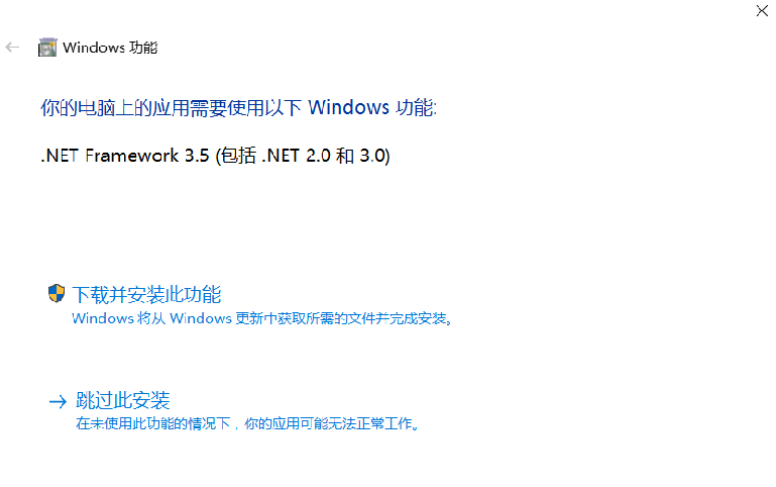
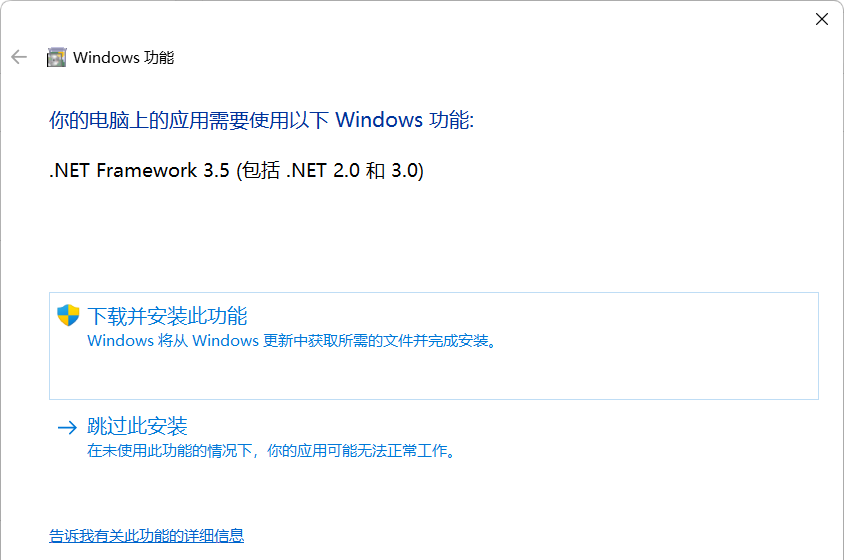
尝试 Win 11/10 的 Tab，更新部分图片

diff --git a/content/basic-maintenance.md b/content/basic-maintenance.md
@@ -23,20 +23,10 @@ type: docs
 
 上一章我们介绍了软件的寻找与安装，这里我们介绍软件的卸载。软件的安装需要通过安装包来进行，而软件的卸载则是安装的逆过程，除了删除软件自身的文件之外，还会撤销一些写入系统的修改，解除一些文件关联等。因此，软件的卸载也需要通过软件自身提供的卸载工具进行，而不是直接「删除」了事。
 
-在 Windows 10 系统上，一般的软件卸载可以按下面的步骤进行：
+卸载软件一般可以按下面的步骤进行：
 
-- 打开系统【设置】。
-- 选择【应用】：
-    
-    ![Applications_10](basic-maintenance/Applications_10.png#center)
-    
-- 稍等片刻以使得列表完全加载。在这个界面上，会列出电脑中安装的所有软件。找到我们不想要的软件，然后点击两次【卸载】：
-    
-    ![Uninstalling_an_app_10](basic-maintenance/Uninstalling_an_app_10.png#center)
-    
-- 根据提示进行卸载操作即可。
-
-而在 Windows 11 上则是这样：
+{{< tabs >}}
+{{% tab "Windows 11" %}}
 
 - 打开系统【设置】。
 - 在界面左侧点击【应用】：
@@ -52,6 +42,23 @@ type: docs
     ![Uninstall_an_app_11](basic-maintenance/Uninstall_an_app_11.jpg#center)
     
 - 之后根据提示卸载即可。
+
+{{% /tab %}}
+{{% tab "Windows 10" %}}
+
+- 打开系统【设置】。
+- 选择【应用】：
+    
+    ![Applications_10](basic-maintenance/Applications_10.png#center)
+    
+- 稍等片刻以使得列表完全加载。在这个界面上，会列出电脑中安装的所有软件。找到我们不想要的软件，然后点击两次【卸载】：
+    
+    ![Uninstalling_an_app_10](basic-maintenance/Uninstalling_an_app_10.png#center)
+    
+- 根据提示进行卸载操作即可。
+
+{{% /tab %}}
+{{< /tabs >}}
 
 一般来说，卸载很快就能完成。但需要特别注意的是，**一些软件的卸载界面错综复杂，充斥有大量的无关选项（例如【再想想】【我要重装】），因此在点选时务必十分小心。甚至有些软件在卸载完成后会诱导用户装一个新的其他软件，请千万注意。** 例如：
 
@@ -160,4 +167,4 @@ Windows 一直在不断的更新之中——这里的「更新」指的不是诸
 
 [^1]: 如果你在使用中压根没见过这样的窗口（即 UAC 弹窗），那么这一节的内容对你可能不适用。你可以去 [用户与微软账号]({{<ref "user-and-ms-account.md">}}) 一章了解更多信息。
     
-    ![UAC_popup_2](basic-maintenance/UAC_popup_2.png#center)
+    ![UAC_popup_2](basic-maintenance/UAC_popup.png#center)

diff --git a/content/file-and-file-management.md b/content/file-and-file-management.md
@@ -299,13 +299,24 @@ D:\Program Files (x86)\Netease\CloudMusic\cloudmusic.exe
 
 ### 合理利用用户文件夹
 
-上文提到了一个叫做 `文档` 的文件夹，它是系统预置的一个用户文件夹。除了「文档」之外，Windows 还提供了「图片」「下载」「视频」等多个用户文件夹。对于 Windows 11，你可以在【此电脑】窗口的左侧看到这些文件夹。
+上文提到了一个叫做 `文档` 的文件夹，它是系统预置的一个用户文件夹。除了「文档」之外，Windows 还提供了「图片」「下载」「视频」等多个用户文件夹。一般这些文件夹可以在【此电脑】窗口中看到：
+
+{{< tabs >}}
+{{% tab "Windows 11" %}}
+
+你可以在【此电脑】窗口的左侧看到这些文件夹。
 
 ![Windows 11 用户文件夹](file-and-file-management/Win11_user_folders.png#center)
 
-Windows 10 上则可以通过双击桌面上的【此电脑】，展开【文件夹】折叠项看到这些文件夹：
+{{% /tab %}}
+{{% tab "Windows 10" %}}
+
+双击桌面上的【此电脑】，展开【文件夹】折叠项看到这些文件夹：
 
 ![User_directories.png](file-and-file-management/User_directories.png#center)
+
+{{% /tab %}}
+{{< /tabs >}}
 
 Windows 系统的本意，是希望用户可以借助这些文件夹来辅助进行文件的整理。可是，这些文件夹默认情况下全部位于 C 盘（路径是 `C:\用户\<你的用户名>\` ）。当我们使用其他分区来存放自己的文件时，这些系统「好心」准备给我们的文件夹就都不能使用了吗？答案是否定的——通过迁移这些文件夹到其他分区，我们可以在利用好这些用户文件夹的同时，保证自己的数据安全和系统稳定。
 

diff --git a/content/software-installation.md b/content/software-installation.md
@@ -164,7 +164,7 @@ D:\Program Files (x86)\Tencent\QQ\
 
 这就是在 D 盘安装 QQ 软件的一个很合适的路径。这样做能保持一个比较干净的目录结构。你的 D 盘下会因此多出 `Program Files` 和 `Program Files (x86)` 这样的两个文件夹，用来专门在 D 盘安装软件。
 
-![Change_C_to_D.png](software-installation/Change_C_to_D.png)
+![Change_C_to_D.png](software-installation/Change_C_to_D.png#center)
 
 如上图所示，一般把这个 `C` 改成 `D` ，就能得到一个不错的 D 盘安装软件的路径。
 
